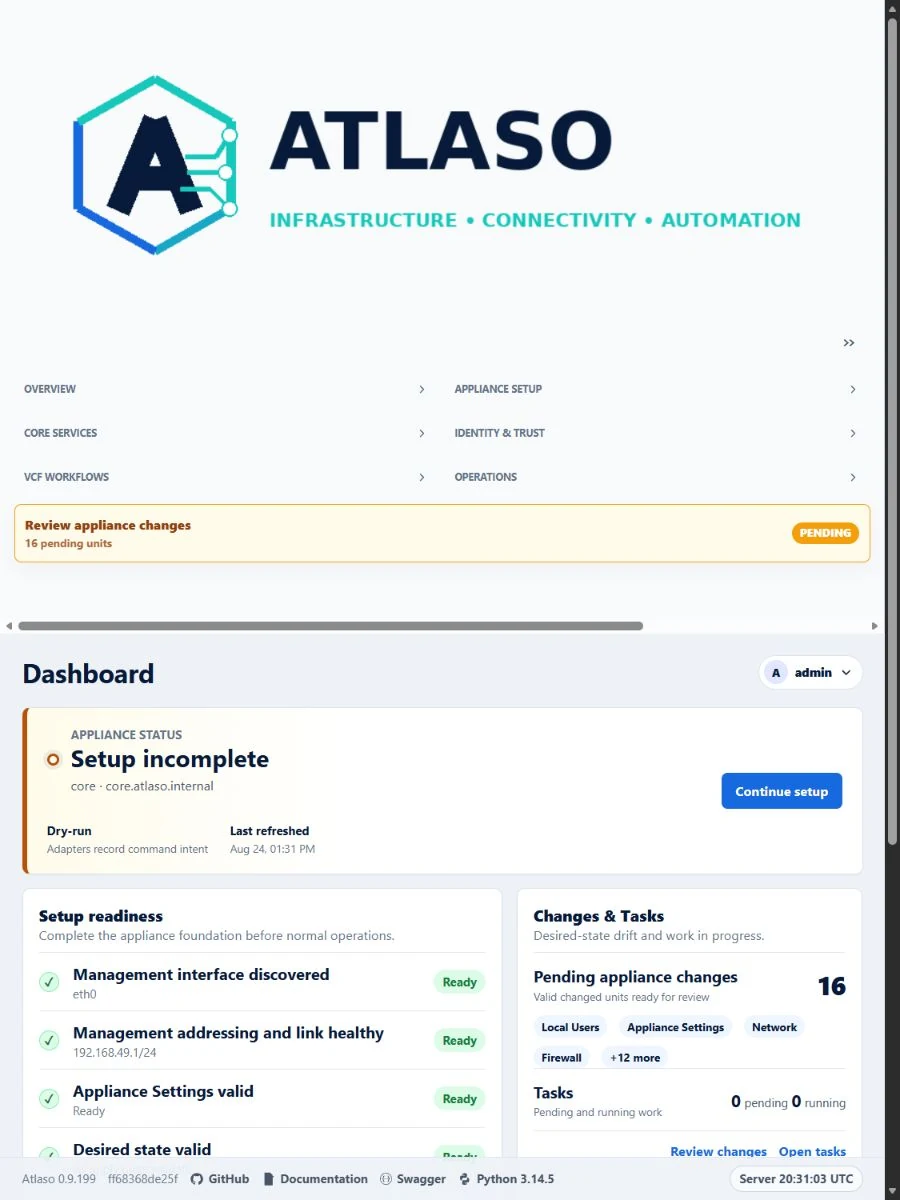
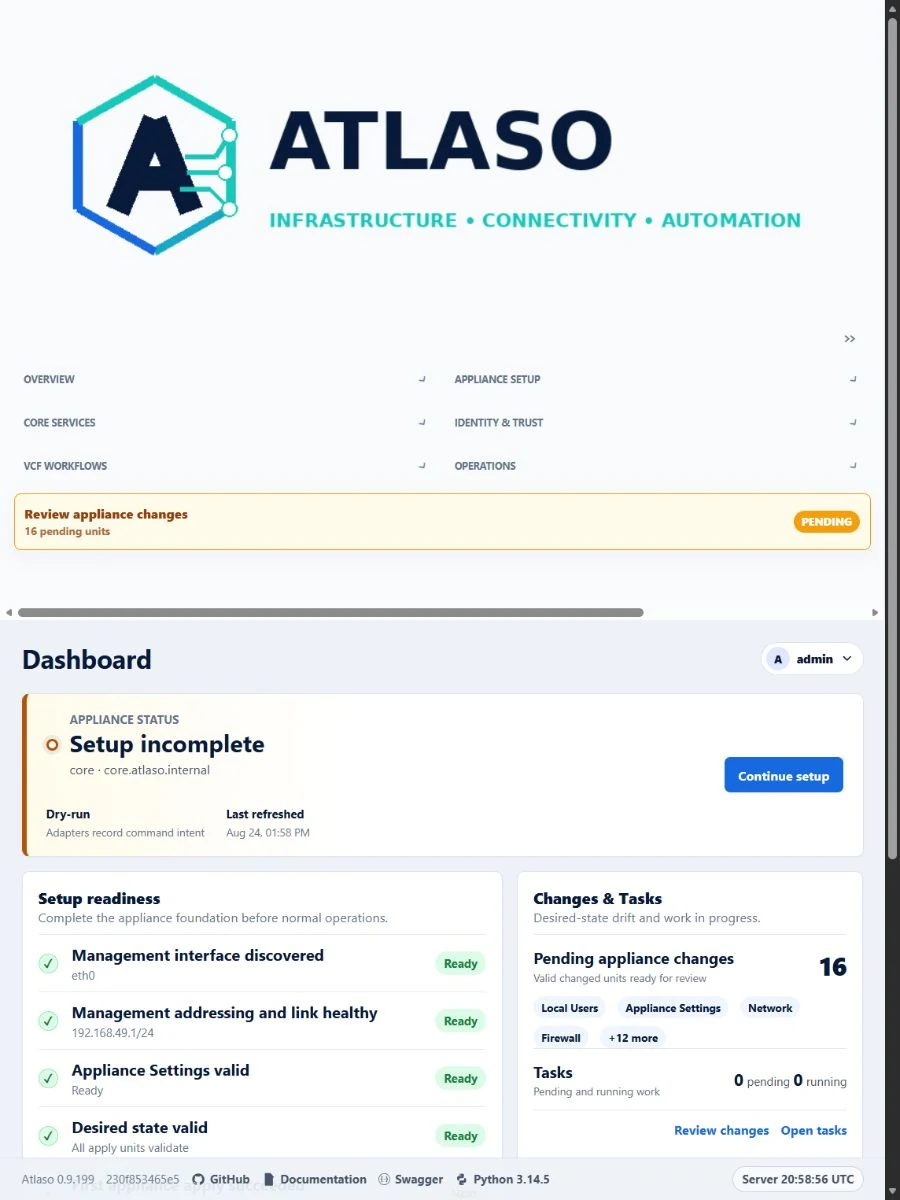
Preserve compact navigation control styling

diff --git a/atlaso/app/templates/base.html b/atlaso/app/templates/base.html
@@ -12,7 +12,7 @@
     <link rel="icon" href="/favicon.ico" type="image/x-icon">
     <link rel="icon" href="/static/brand/atlaso-icon.svg" type="image/svg+xml">
     <link rel="stylesheet" href="/static/vendor/tabulator/tabulator.min.css">
-    <link rel="stylesheet" href="/static/app.css?v=issues-499-500-1">
+    <link rel="stylesheet" href="/static/app.css?v=issues-499-500-2">
     {% block extra_head %}{% endblock %}
   </head>
   <body>
@@ -399,7 +399,7 @@
     <link rel="stylesheet" href="/static/vendor/monaco/atlaso-monaco.min.css?v=atlaso-monaco-20260806-7">
     <script src="/static/vendor/monaco/atlaso-monaco.min.js?v=atlaso-monaco-20260806-7"></script>
     <script src="/static/ui-routes.js?v=issue-287-1"></script>
-    <script src="/static/app.js?v=issues-499-500-1"></script>
+    <script src="/static/app.js?v=issues-499-500-2"></script>
     <script src="/static/pwa.js?v=issue-287-2"></script>
     {% block extra_scripts %}{% endblock %}
   </body>

diff --git a/atlaso/app/templates/public_portal_base.html b/atlaso/app/templates/public_portal_base.html
@@ -9,7 +9,7 @@
     <link rel="icon" href="/favicon.ico" type="image/x-icon">
     <link rel="icon" href="/static/brand/atlaso-icon.svg" type="image/svg+xml">
     <link rel="stylesheet" href="/static/vendor/tabulator/tabulator.min.css">
-    <link rel="stylesheet" href="/static/app.css?v=issues-499-500-1">
+    <link rel="stylesheet" href="/static/app.css?v=issues-499-500-2">
     {% block extra_head %}{% endblock %}
   </head>
   <body>
@@ -80,7 +80,7 @@
     <script src="/static/vendor/tabulator/tabulator.min.js"></script>
     <script src="/static/ui-patterns.js?v=atlaso-ui-foundation-20260726-8"></script>
     <script src="/static/ui-routes.js?v=issue-287-1"></script>
-    <script src="/static/app.js?v=issues-499-500-1"></script>
+    <script src="/static/app.js?v=issues-499-500-2"></script>
     {% block public_after_main %}{% endblock %}
   </body>
 </html>

diff --git a/atlaso/app/static/service-worker.js b/atlaso/app/static/service-worker.js
@@ -1,13 +1,13 @@
-const ATLASO_CACHE = "atlaso-management-pwa-v270";
+const ATLASO_CACHE = "atlaso-management-pwa-v271";
 const ATLASO_ASSETS = [
   "/manifest.webmanifest",
   "/favicon.ico",
   "/static/offline.html",
-  "/static/app.css?v=issues-499-500-1",
+  "/static/app.css?v=issues-499-500-2",
   "/static/ui-patterns.js?v=atlaso-ui-foundation-20260726-8",
   "/static/ui-routes.js?v=issue-287-1",
   "/static/appliance-apply-polling.js?v=issue-420-6",
-  "/static/app.js?v=issues-499-500-1",
+  "/static/app.js?v=issues-499-500-2",
   "/static/terminal.js?v=issue-287-2",
   "/static/vendor/xterm/xterm.css?v=5.5.0",
   "/static/vendor/xterm/xterm.js?v=5.5.0",

diff --git a/atlaso/app/static/app.css b/atlaso/app/static/app.css
@@ -114,7 +114,7 @@ textarea {
   padding: 0 6px;
 }
 
-.primary-nav-bulk-toggle {
+.button.ghost.primary-nav-bulk-toggle {
   width: 32px;
   min-height: 28px;
   height: 28px;
@@ -129,14 +129,14 @@ textarea {
   white-space: nowrap;
 }
 
-.primary-nav-bulk-toggle:hover,
-.primary-nav-bulk-toggle:focus-visible {
+.button.ghost.primary-nav-bulk-toggle:hover,
+.button.ghost.primary-nav-bulk-toggle:focus-visible {
   border-color: transparent;
   background: #e2e8f0;
   color: #334155;
 }
 
-.primary-nav-bulk-toggle:focus-visible {
+.button.ghost.primary-nav-bulk-toggle:focus-visible {
   outline: 2px solid var(--accent);
   outline-offset: 2px;
 }

diff --git a/atlaso/app/templates/remote_terminal.html b/atlaso/app/templates/remote_terminal.html
@@ -5,7 +5,7 @@
     <meta name="viewport" content="width=device-width, initial-scale=1">
     <title>Remote terminal</title>
     <link rel="icon" href="/static/brand/atlaso-icon.svg" type="image/svg+xml">
-    <link rel="stylesheet" href="/static/app.css?v=issues-499-500-1">
+    <link rel="stylesheet" href="/static/app.css?v=issues-499-500-2">
     <link rel="stylesheet" href="/static/vendor/xterm/xterm.css?v=5.5.0">
   </head>
   <body class="remote-terminal-body">

diff --git a/atlaso/app/templates/login.html b/atlaso/app/templates/login.html
@@ -11,7 +11,7 @@
     <link rel="apple-touch-icon" href="/static/brand/atlaso-app-icon-light-180.png">
     <link rel="icon" href="/favicon.ico" type="image/x-icon">
     <link rel="icon" href="/static/brand/atlaso-icon.svg" type="image/svg+xml">
-    <link rel="stylesheet" href="/static/app.css?v=issues-499-500-1">
+    <link rel="stylesheet" href="/static/app.css?v=issues-499-500-2">
   </head>
   <body>
     <main class="login-shell">

diff --git a/atlaso/app/static/offline.html b/atlaso/app/static/offline.html
@@ -6,7 +6,7 @@
     <title>Atlaso - Offline</title>
     <link rel="icon" href="/favicon.ico" type="image/x-icon">
     <link rel="icon" href="/static/brand/atlaso-icon.svg" type="image/svg+xml">
-    <link rel="stylesheet" href="/static/app.css?v=issues-499-500-1">
+    <link rel="stylesheet" href="/static/app.css?v=issues-499-500-2">
   </head>
   <body>
     <main class="login-shell">

diff --git a/tests/test_ui.py b/tests/test_ui.py
@@ -896,7 +896,7 @@ def test_pwa_manifest_service_worker_and_offline_shell(client):
     assert service_worker.headers["cache-control"] == "no-cache"
     assert service_worker.headers["service-worker-allowed"] == "/ui/management/"
     assert "ATLASO_CACHE" in service_worker.text
-    assert "atlaso-management-pwa-v270" in service_worker.text
+    assert "atlaso-management-pwa-v271" in service_worker.text
     assert 'fetch(asset, { cache: "reload" })' in service_worker.text
     assert ".catch(() => undefined)" in service_worker.text
     assert 'request.mode === "navigate"' in service_worker.text
@@ -910,11 +910,11 @@ def test_pwa_manifest_service_worker_and_offline_shell(client):
     assert 'accept.includes("text/html")' in service_worker.text
     assert '!hasDownloadLikePath(url)' in service_worker.text
     assert "/static/vendor/monaco/atlaso-monaco.min.js?v=atlaso-monaco-20260806-7" in service_worker.text
-    assert "/static/app.css?v=issues-499-500-1" in service_worker.text
+    assert "/static/app.css?v=issues-499-500-2" in service_worker.text
     assert "/static/ui-patterns.js?v=atlaso-ui-foundation-20260726-8" in service_worker.text
     assert "/static/appliance-apply-polling.js?v=issue-420-6" in service_worker.text
     assert "/static/ui-routes.js?v=issue-287-1" in service_worker.text
-    assert "/static/app.js?v=issues-499-500-1" in service_worker.text
+    assert "/static/app.js?v=issues-499-500-2" in service_worker.text
     assert "/static/terminal.js?v=issue-287-2" in service_worker.text
     assert "/static/pwa.js?v=issue-287-2" in service_worker.text
     assert "vcfdt-configuration-248-20260807-14" not in service_worker.text
@@ -940,7 +940,7 @@ def test_pwa_manifest_service_worker_and_offline_shell(client):
     )
     assert offline_stylesheet is not None
     assert offline_stylesheet.group(1) == (
-        "/static/app.css?v=issues-499-500-1"
+        "/static/app.css?v=issues-499-500-2"
     )
     assert f'"{offline_stylesheet.group(1)}"' in service_worker.text
 
@@ -968,8 +968,8 @@ def test_shared_ui_pattern_shell_and_wizard_contracts(client):
     base = (templates / "base.html").read_text(encoding="utf-8")
     public_base = (templates / "public_portal_base.html").read_text(encoding="utf-8")
     for shell, app_asset in (
-        (base, "/static/app.js?v=issues-499-500-1"),
-        (public_base, "/static/app.js?v=issues-499-500-1"),
+        (base, "/static/app.js?v=issues-499-500-2"),
+        (public_base, "/static/app.js?v=issues-499-500-2"),
         (base, "/static/appliance-apply-polling.js?v=issue-420-6"),
     ):
         assert shell.index("/static/vendor/tabulator/tabulator.min.js") < shell.index(
@@ -1615,9 +1615,9 @@ def test_monitor_page_renders_template_and_browser_assets(client):
     assert "Loading devices" not in page.text
     assert "<th>Device</th><th>Read/s</th><th>Write/s</th>" in page.text
     assert "swagger-link-icon" in page.text
-    assert "/static/app.css?v=issues-499-500-1" in page.text
+    assert "/static/app.css?v=issues-499-500-2" in page.text
     assert "/static/ui-patterns.js?v=atlaso-ui-foundation-20260726-8" in page.text
-    assert "/static/app.js?v=issues-499-500-1" in page.text
+    assert "/static/app.js?v=issues-499-500-2" in page.text
     app_css = client.get("/static/app.css")
     assert app_css.status_code == 200
     assert ".split-workspace > .wide-panel" in app_css.text

diff --git a/tests/test_vaults.py b/tests/test_vaults.py
@@ -609,7 +609,7 @@ def test_vault_javascript_uses_shared_grid_wizard_and_timed_eye():
     assert 'id="confirm-modal-detail"' in base_template
     assert ".confirm-modal.has-confirm-detail" in css
     assert "overflow-wrap: anywhere;" in css[css.index(".confirm-modal-detail-group"):css.index(".confirm-modal.wide-modal")]
-    assert "issues-499-500-1" in base_template
+    assert "issues-499-500-2" in base_template
     trust_template = Path("atlaso/app/templates/partials/vcf_trust_modal.html").read_text()
     import_template = Path("atlaso/app/templates/partials/vcf_vault_import_modal.html").read_text()
     depot_template = Path("atlaso/app/templates/partials/vcf_target_depot_modal.html").read_text()
@@ -771,7 +771,7 @@ def test_remote_vault_uri_launch_uses_one_use_server_side_ticket(client, monkeyp
     assert "sidebar" not in remote_page.text
     assert "Primary" not in remote_page.text
     assert "/static/terminal.js?v=issue-287-2" in remote_page.text
-    assert "/static/app.css?v=issues-499-500-1" in remote_page.text
+    assert "/static/app.css?v=issues-499-500-2" in remote_page.text
 
     ticket_response = client.post(
         "/terminal/tickets",

diff --git a/scripts/generate_screenshot_manifest.py b/scripts/generate_screenshot_manifest.py
@@ -23,17 +23,17 @@ CAPTURE_OVERRIDES = {
         "capture_method": "codex-in-app-browser",
     },
     "primary-navigation-expanded-desktop": {
-        "source_commit": "0df3b4b3+working-tree",
-        "atlaso_version": "0.9.195",
+        "source_commit": "230f8534+working-tree",
+        "atlaso_version": "0.9.199",
         "capture_method": "codex-in-app-browser",
     },
     "primary-navigation-collapsed-desktop": {
-        "source_commit": "0df3b4b3+working-tree",
-        "atlaso_version": "0.9.195",
+        "source_commit": "230f8534+working-tree",
+        "atlaso_version": "0.9.199",
         "capture_method": "codex-in-app-browser",
     },
     "primary-navigation-collapsed-responsive": {
-        "source_commit": "ff68368d",
+        "source_commit": "230f8534+working-tree",
         "atlaso_version": "0.9.199",
         "capture_method": "codex-in-app-browser",
     },
